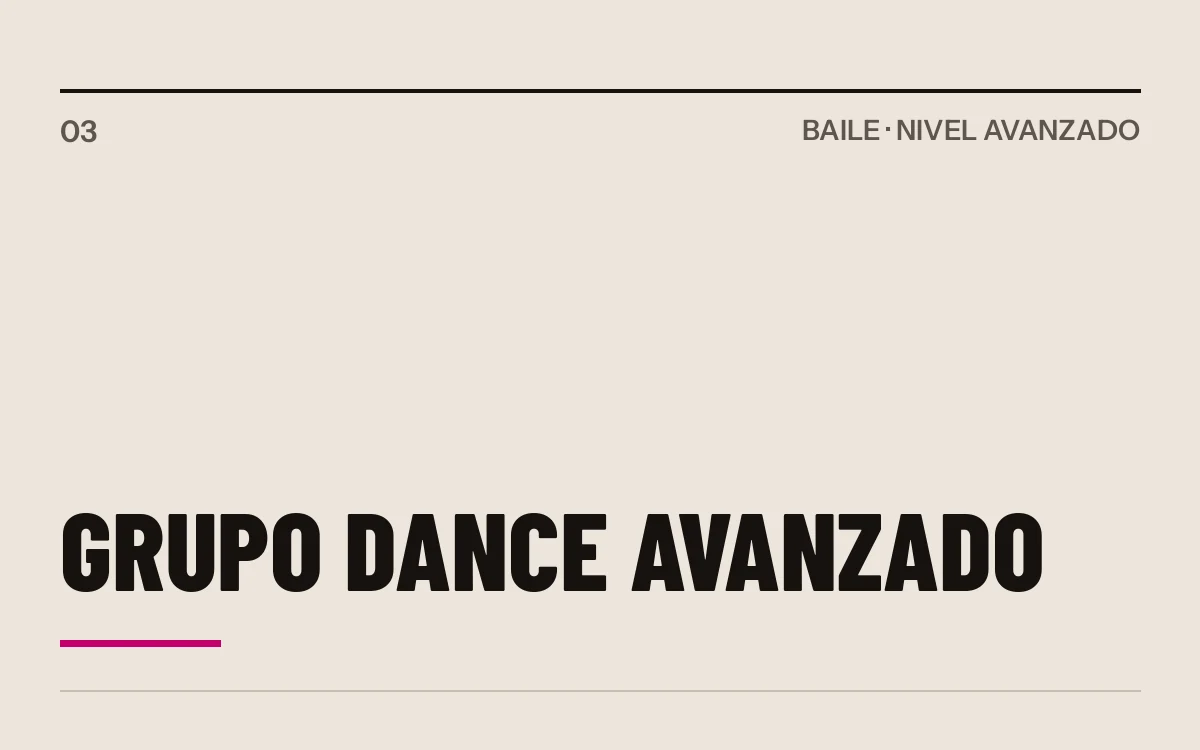
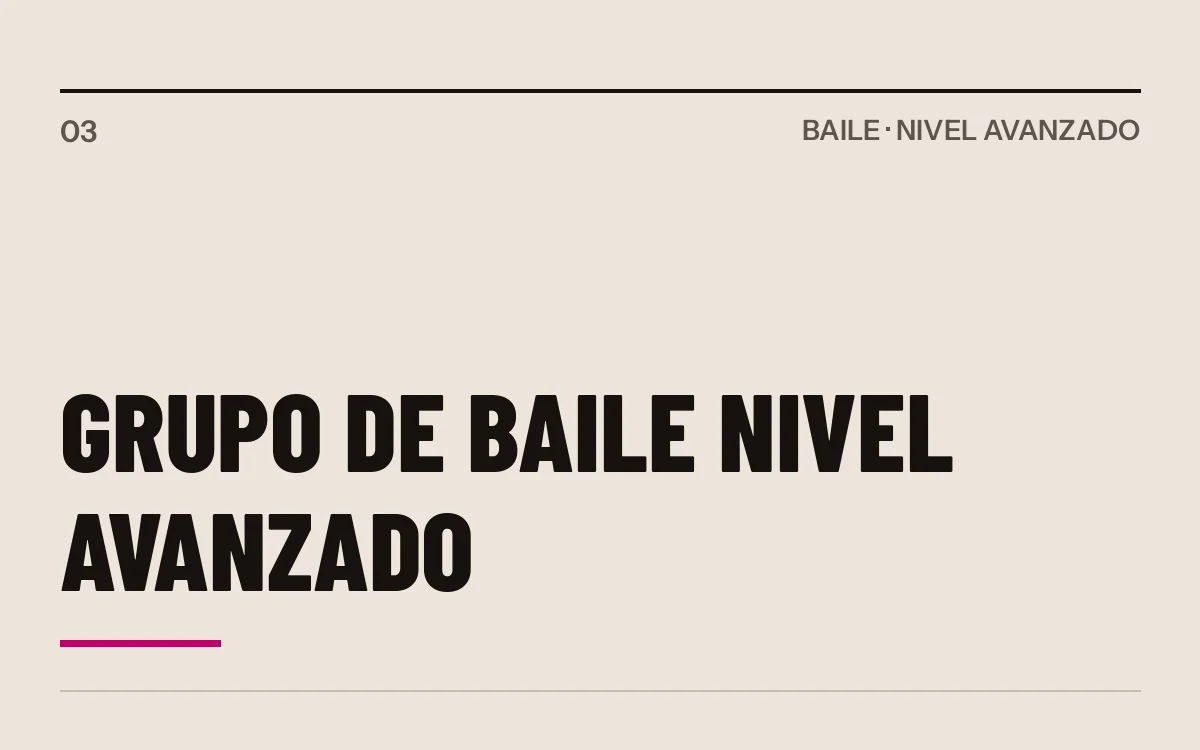
Arreglo: las tarjetas generadas de las clases vuelven a regenerarse con los nombres actuales
El flag placeholder (texto provisional) también decidía si la imagen era generada; al
poner los textos de Nadia las imágenes se quedaron con los nombres antiguos. Ahora una
imagen es generada si vive en assets/img/clases/.

Changed region(s): [[0.0308, 0.6747, 0.8942, 0.7973], [0.0308, 0.5213, 0.8017, 0.644]]

diff --git a/clases/index.html b/clases/index.html
@@ -84,7 +84,7 @@
 <section class="group" id="peques" aria-labelledby="peques-title">
 <div class="group-head"><h2 id="peques-title">Grupo baby</h2><p>Primeros pasos de baile, de 3 a 6 años.</p></div>
 <article class="cd" id="dance-baby">
-<img class="cl-photo" src="../assets/img/clases/dance-baby.webp" alt="" width="840" height="840" loading="lazy">
+<img class="cl-photo is-placeholder" src="../assets/img/clases/dance-baby.webp" alt="" width="1200" height="750" loading="lazy">
 <div class="cd-main">
 <p class="cl-aud">Baile · De 3 a 6 años</p>
 <h3 class="cd-name"><span class="dot dot-dance" aria-hidden="true"></span>Grupo de baile baby</h3>
@@ -96,7 +96,7 @@
 </section><section class="group" id="niveles" aria-labelledby="niveles-title">
 <div class="group-head"><h2 id="niveles-title">Grupos de baile por niveles</h2><p>Intermedio 1, Intermedio 2, Intermedio 3 y Avanzado.</p></div>
 <article class="cd" id="dance-intermedio">
-<img class="cl-photo" src="../assets/img/clases/dance-intermedio.webp" alt="" width="840" height="840" loading="lazy">
+<img class="cl-photo is-placeholder" src="../assets/img/clases/dance-intermedio.webp" alt="" width="1200" height="750" loading="lazy">
 <div class="cd-main">
 <p class="cl-aud">Baile · A partir de 7 años</p>
 <h3 class="cd-name"><span class="dot dot-dance" aria-hidden="true"></span>Grupos de baile nivel intermedio</h3>
@@ -105,7 +105,7 @@
 <p class="cd-actions"><a class="link-cta" href="../contacto/?clase=dance-intermedio">Reservar plaza <span aria-hidden="true">→</span></a><a class="link-cta link-quiet" href="../horario/?clase=dance-intermedio">Ver en el horario <span aria-hidden="true">→</span></a></p>
 </div>
 </article><article class="cd" id="dance-avanzado">
-<img class="cl-photo" src="../assets/img/clases/dance-avanzado.webp" alt="" width="840" height="840" loading="lazy">
+<img class="cl-photo is-placeholder" src="../assets/img/clases/dance-avanzado.webp" alt="" width="1200" height="750" loading="lazy">
 <div class="cd-main">
 <p class="cl-aud">Baile · Nivel avanzado</p>
 <h3 class="cd-name"><span class="dot dot-dance" aria-hidden="true"></span>Grupo de baile nivel avanzado</h3>
@@ -129,7 +129,7 @@
 </section><section class="group" id="fitness" aria-labelledby="fitness-title">
 <div class="group-head"><h2 id="fitness-title">Fitness y bienestar</h2><p>Entrenamiento funcional (PowerHIIT), Aquafitness, Pilates y clases dirigidas (Fitdance).</p></div>
 <article class="cd" id="powerhiit">
-<img class="cl-photo" src="../assets/img/clases/powerhiit.webp" alt="" width="840" height="840" loading="lazy">
+<img class="cl-photo is-placeholder" src="../assets/img/clases/powerhiit.webp" alt="" width="1200" height="750" loading="lazy">
 <div class="cd-main">
 <p class="cl-aud">Fitness · Adultos</p>
 <h3 class="cd-name"><span class="dot dot-fit" aria-hidden="true"></span>Entrenamiento funcional (PowerHIIT)</h3>
@@ -138,7 +138,7 @@
 <p class="cd-actions"><a class="link-cta" href="../contacto/?clase=powerhiit">Reservar plaza <span aria-hidden="true">→</span></a><a class="link-cta link-quiet" href="../horario/?clase=powerhiit">Ver en el horario <span aria-hidden="true">→</span></a></p>
 </div>
 </article><article class="cd" id="aquafitness">
-<img class="cl-photo" src="../assets/img/clases/aquafitness.webp" alt="" width="840" height="840" loading="lazy">
+<img class="cl-photo is-placeholder" src="../assets/img/clases/aquafitness.webp" alt="" width="1200" height="750" loading="lazy">
 <div class="cd-main">
 <p class="cl-aud">Entrenamiento en el agua · Adultos</p>
 <h3 class="cd-name"><span class="dot dot-fit" aria-hidden="true"></span>Aquafitness</h3>
@@ -147,7 +147,7 @@
 <p class="cd-actions"><a class="link-cta" href="../contacto/?clase=aquafitness">Reservar plaza <span aria-hidden="true">→</span></a><a class="link-cta link-quiet" href="../horario/?clase=aquafitness">Ver en el horario <span aria-hidden="true">→</span></a></p>
 </div>
 </article><article class="cd" id="pilates">
-<img class="cl-photo" src="../assets/img/clases/pilates.webp" alt="" width="840" height="840" loading="lazy">
+<img class="cl-photo is-placeholder" src="../assets/img/clases/pilates.webp" alt="" width="1200" height="750" loading="lazy">
 <div class="cd-main">
 <p class="cl-aud">Fitness · Adultos · con Elena</p>
 <h3 class="cd-name"><span class="dot dot-fit" aria-hidden="true"></span>Pilates</h3>

diff --git a/tools/build.py b/tools/build.py
@@ -102,8 +102,13 @@ def img(p, photo, cls, sizes, eager=False, alt=None):
     return f'<img class="{cls}" src="{p}assets/img/{f}"{srcset} alt="{e(a)}" width="{photo["w"]}" height="{photo["h"]}"{loading}>'
 
 
+def generated_photo(c):
+    """Classes without a real photo get a drawn card in assets/img/clases/ (rebuilt every run, so names stay current)."""
+    return c["photo"].startswith("clases/")
+
+
 def class_photo(c):
-    if c["placeholder"]:
+    if generated_photo(c):
         return {"file": c["photo"], "alt": "", "w": 1200, "h": 750}
     return {"file": c["photo"], "alt": c["photoAlt"], "w": 840, "h": 840}
 
@@ -326,7 +331,7 @@ def today_board(p):
 
 def class_detail(p, c, n):
     when = "".join(f"<li>{w}</li>" for w in when_lines(c["id"]))
-    photo = img(p, class_photo(c), "cl-photo" + (" is-placeholder" if c["placeholder"] else ""), "(max-width: 860px) 100vw, 400px")
+    photo = img(p, class_photo(c), "cl-photo" + (" is-placeholder" if generated_photo(c) else ""), "(max-width: 860px) 100vw, 400px")
     return f'''<article class="cd" id="{c["id"]}">
 {photo}
 <div class="cd-main">
@@ -761,7 +766,7 @@ def images():
             im.resize((w, w), Image.LANCZOS).save(out.replace(".webp", f"-{w}.webp"), "WEBP", quality=84, method=6)
 
     for i, c in enumerate(CLASSES, 1):
-        if not c["placeholder"]:
+        if not generated_photo(c):
             continue
         im = Image.new("RGB", (1200, 750), paper)
         d = ImageDraw.Draw(im)
